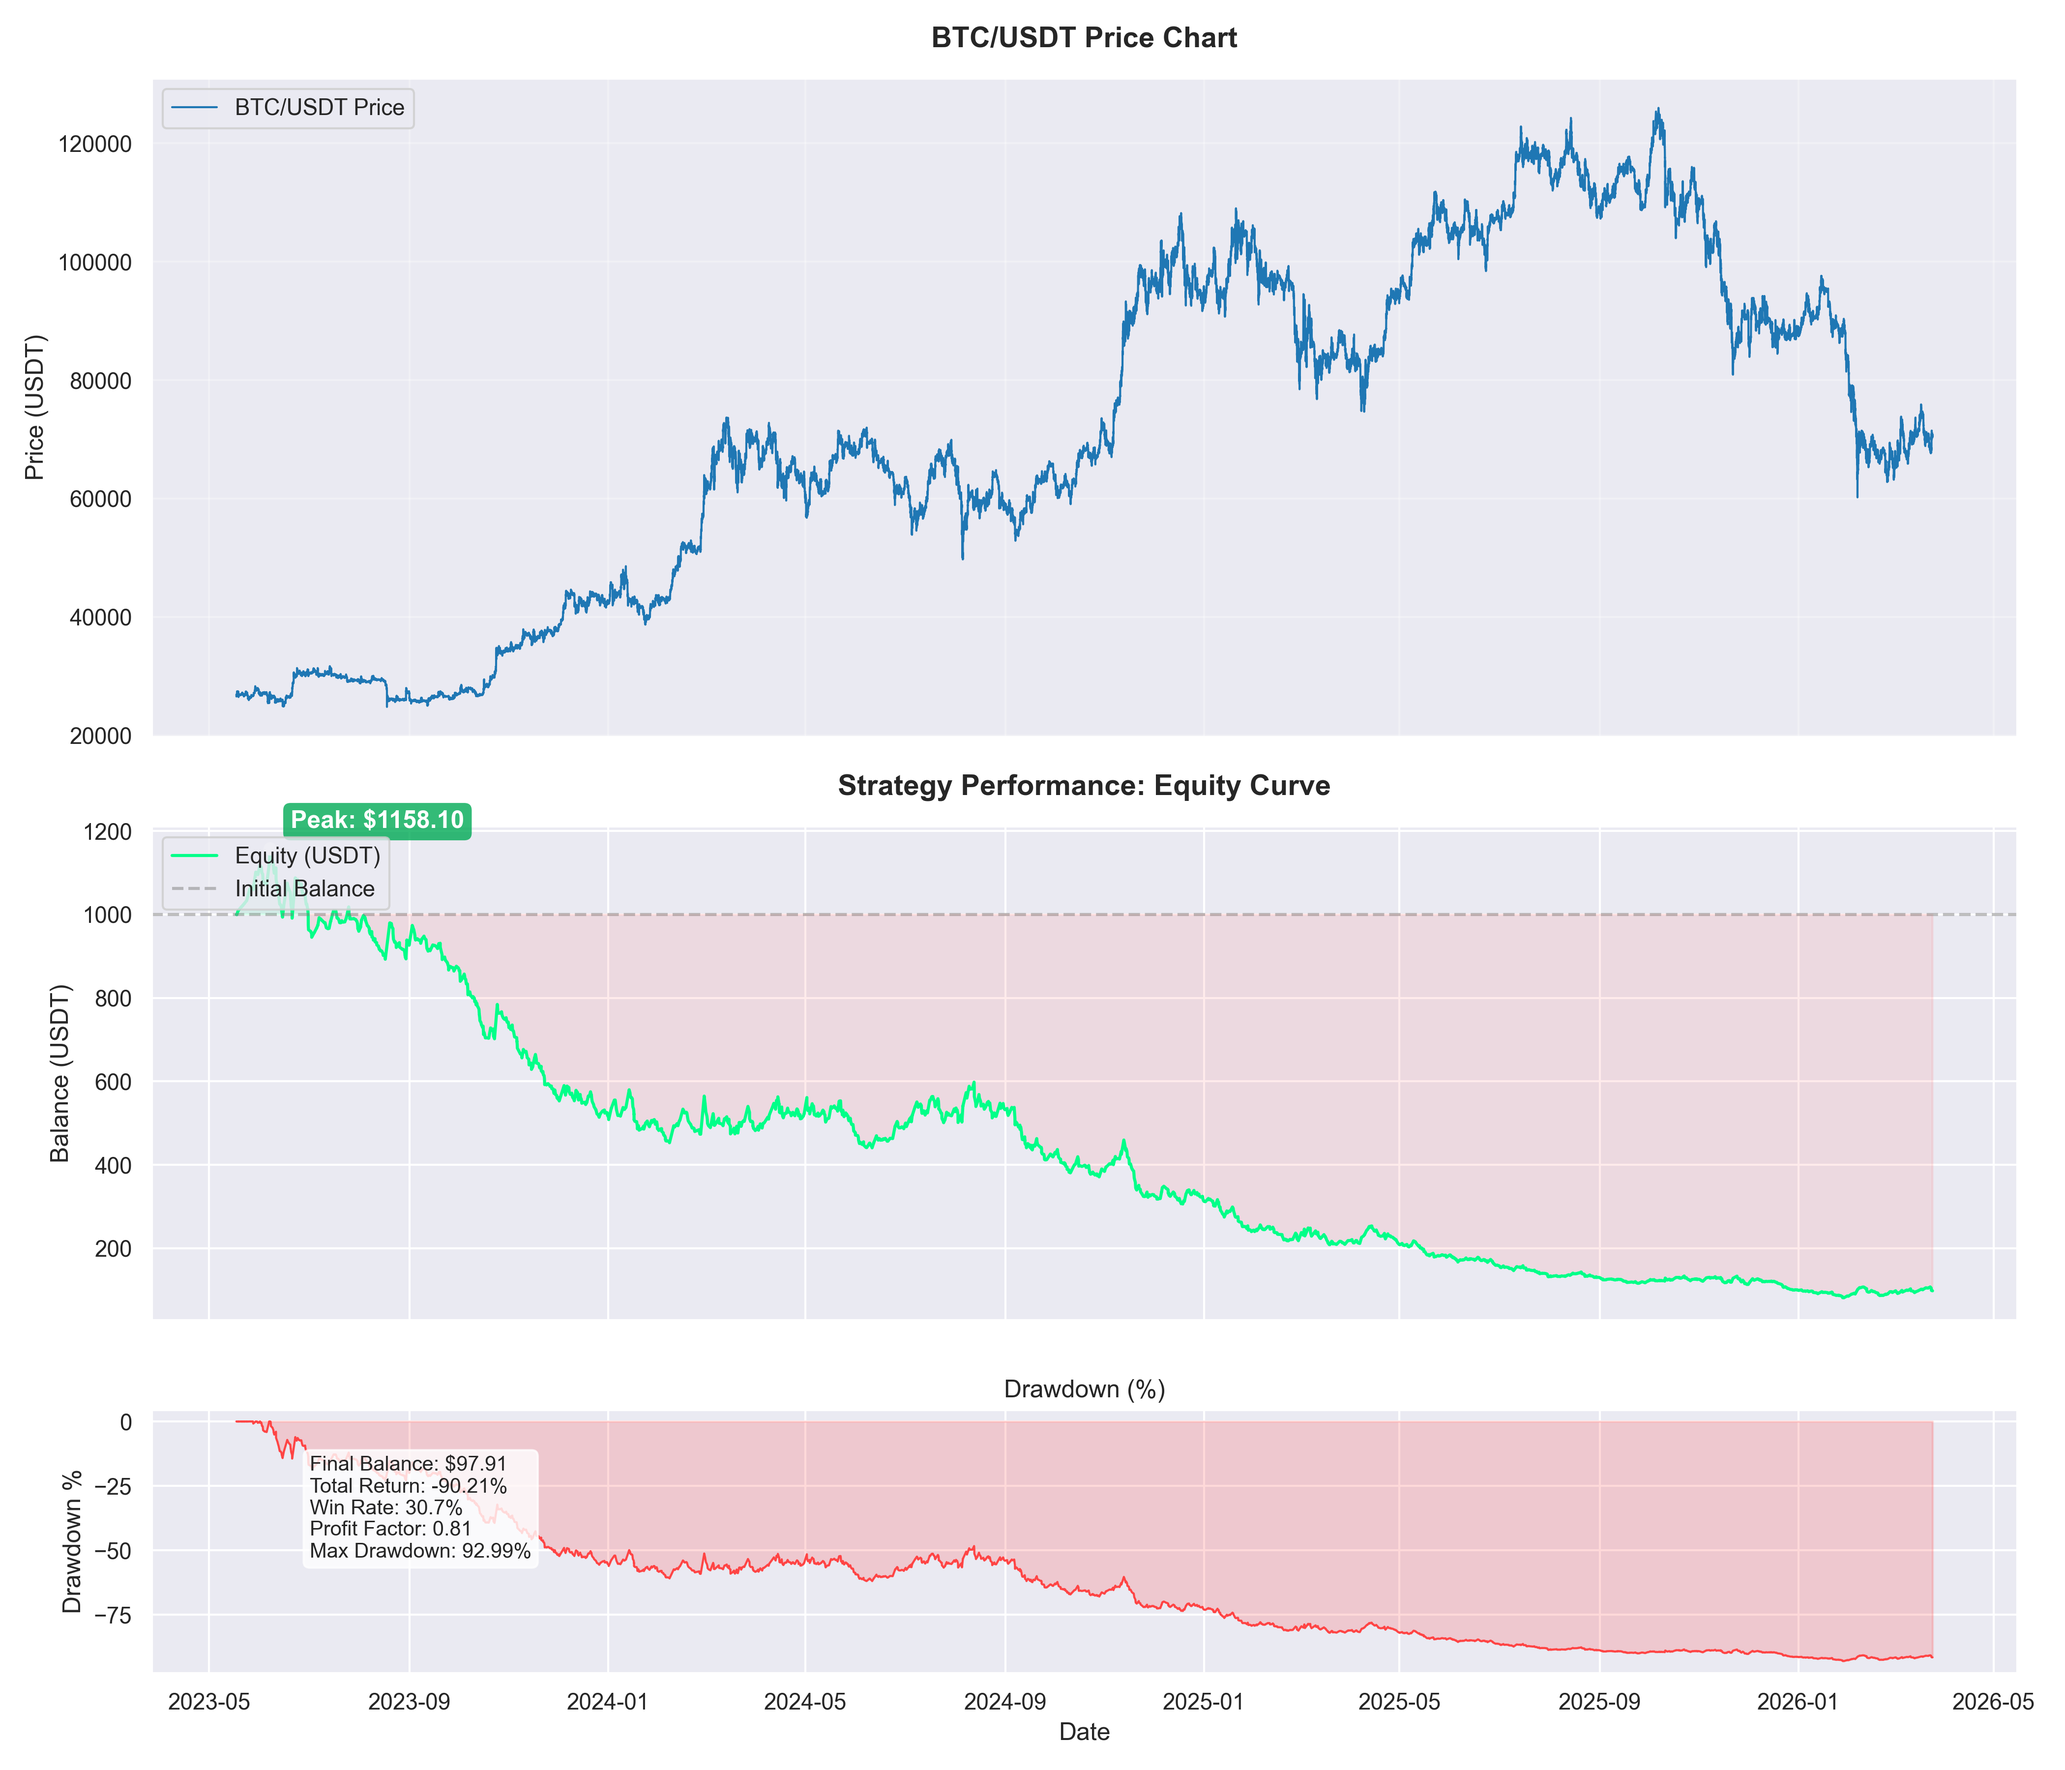
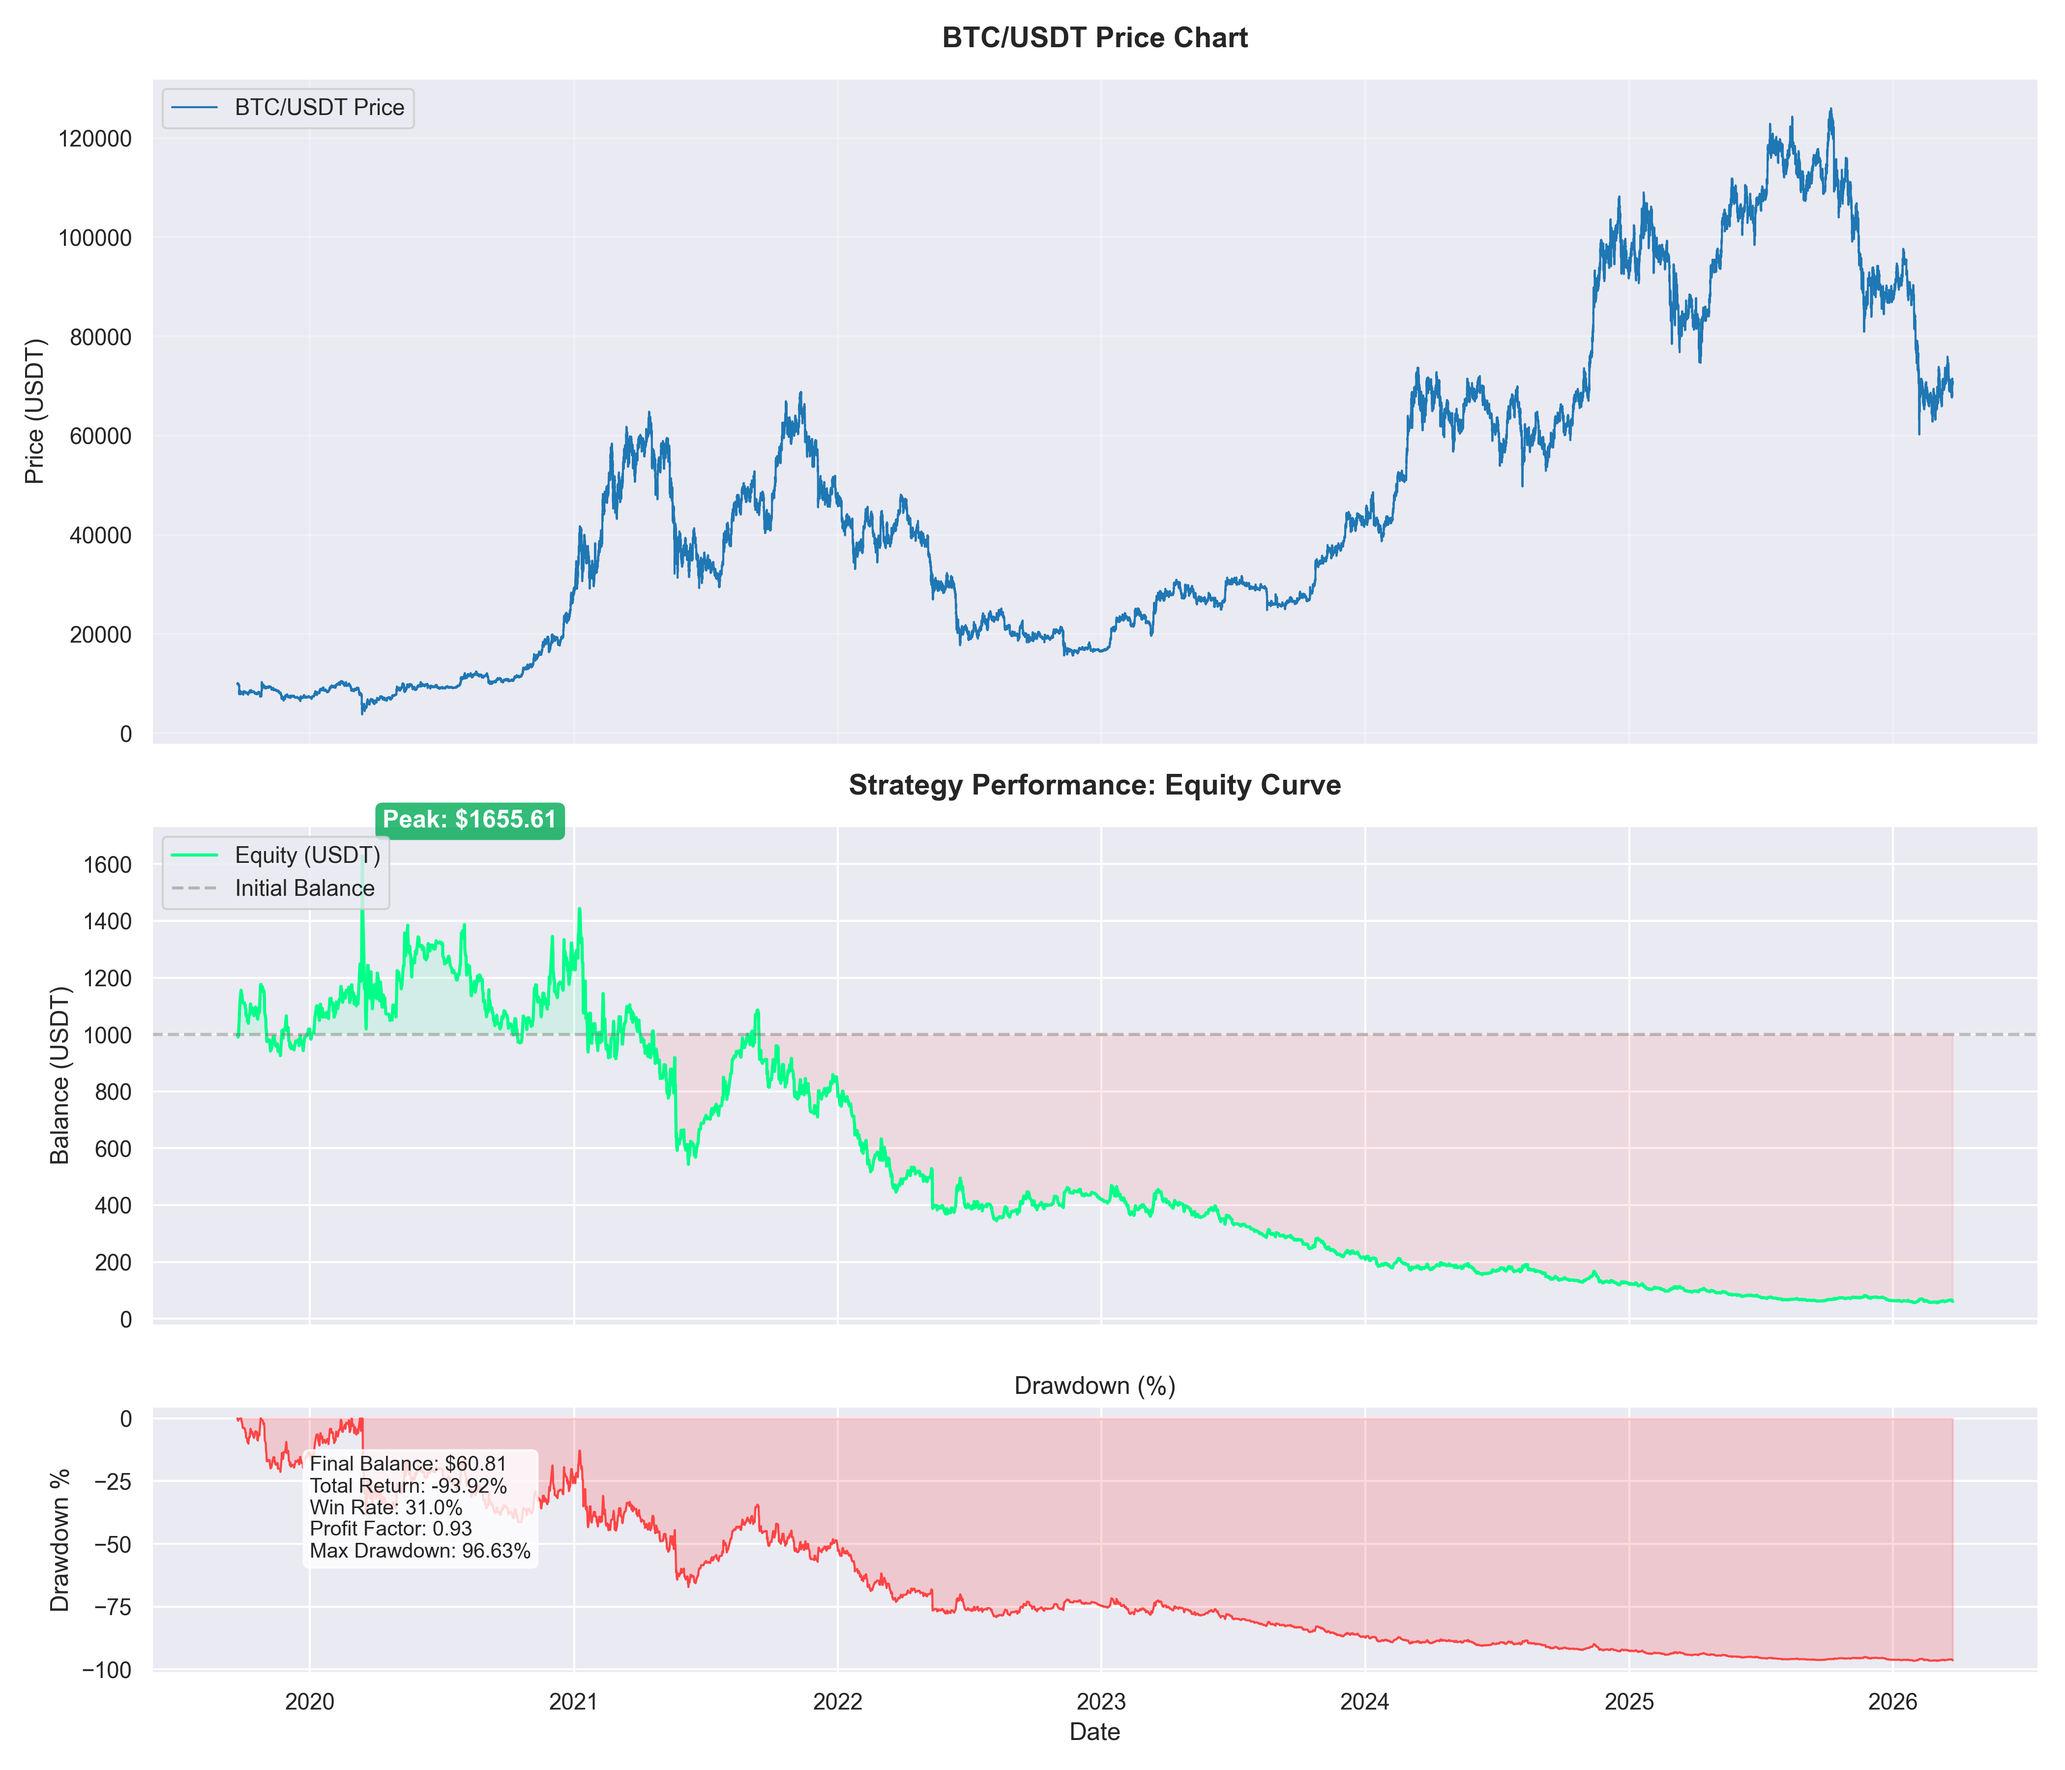
feat: Add backtesting orchestrator, volume MA optimization, and a new configuration module.

diff --git a/module/optimize/optimize_volume.py b/module/optimize/optimize_volume.py
@@ -2,7 +2,7 @@ import numpy as np
 from base_optimizer import BaseOptimizer
 from module.backtest.orchestrator import simulate
 from module.bot.data_processor import DataProcessor
-from config import SUPERTREND_LENGTH, SUPERTREND_FACTOR, EMA_LENGTH
+from resource.config import SUPERTREND_LENGTH, SUPERTREND_FACTOR, EMA_LENGTH
 
 
 def run_simulation(vol_len, df_final):
@@ -35,7 +35,7 @@ def run_optimization():
     if not optimizer.load_and_prepare_data():
         return
 
-    vol_lengths = np.arange(150, 180, 1)
+    vol_lengths = np.arange(65, 126, 1)
     print(f"Testing {len(vol_lengths)} Volume MA lengths...")
 
     tasks = [(vol_len,) for vol_len in vol_lengths]

diff --git a/module/backtest/orchestrator.py b/module/backtest/orchestrator.py
@@ -28,7 +28,7 @@ from module.backtest.data_loader import BacktestDataLoader
 from module.backtest.simulator import Simulator
 from module.backtest.reporter import BacktestReporter
 
-LIMIT = 200000  # Candles for long-term backtest (performance stats)
+LIMIT = 228000  # Candles for long-term backtest (performance stats)
 WORKERS = 5
 SLEEP = 1.5
 GEN_CHART = True
@@ -165,7 +165,7 @@ def run_backtest():
     # Run simulation
     res, trades = simulate(
         df_final,
-        use_ema_filter=False,
+        use_ema_filter=True,
         use_volume_filter=False,
         use_htf_filter=False,
         use_breakeven=False,

diff --git a/resource/config.py b/resource/config.py
@@ -48,7 +48,7 @@ class TradingConfig:
     CONSOLE_TRADE_LIMIT: int = 15
 
     # Volume
-    VOLUME_MA_LENGTH: int = 166
+    VOLUME_MA_LENGTH: int = 83
 
 
 # Instantiate global settings
